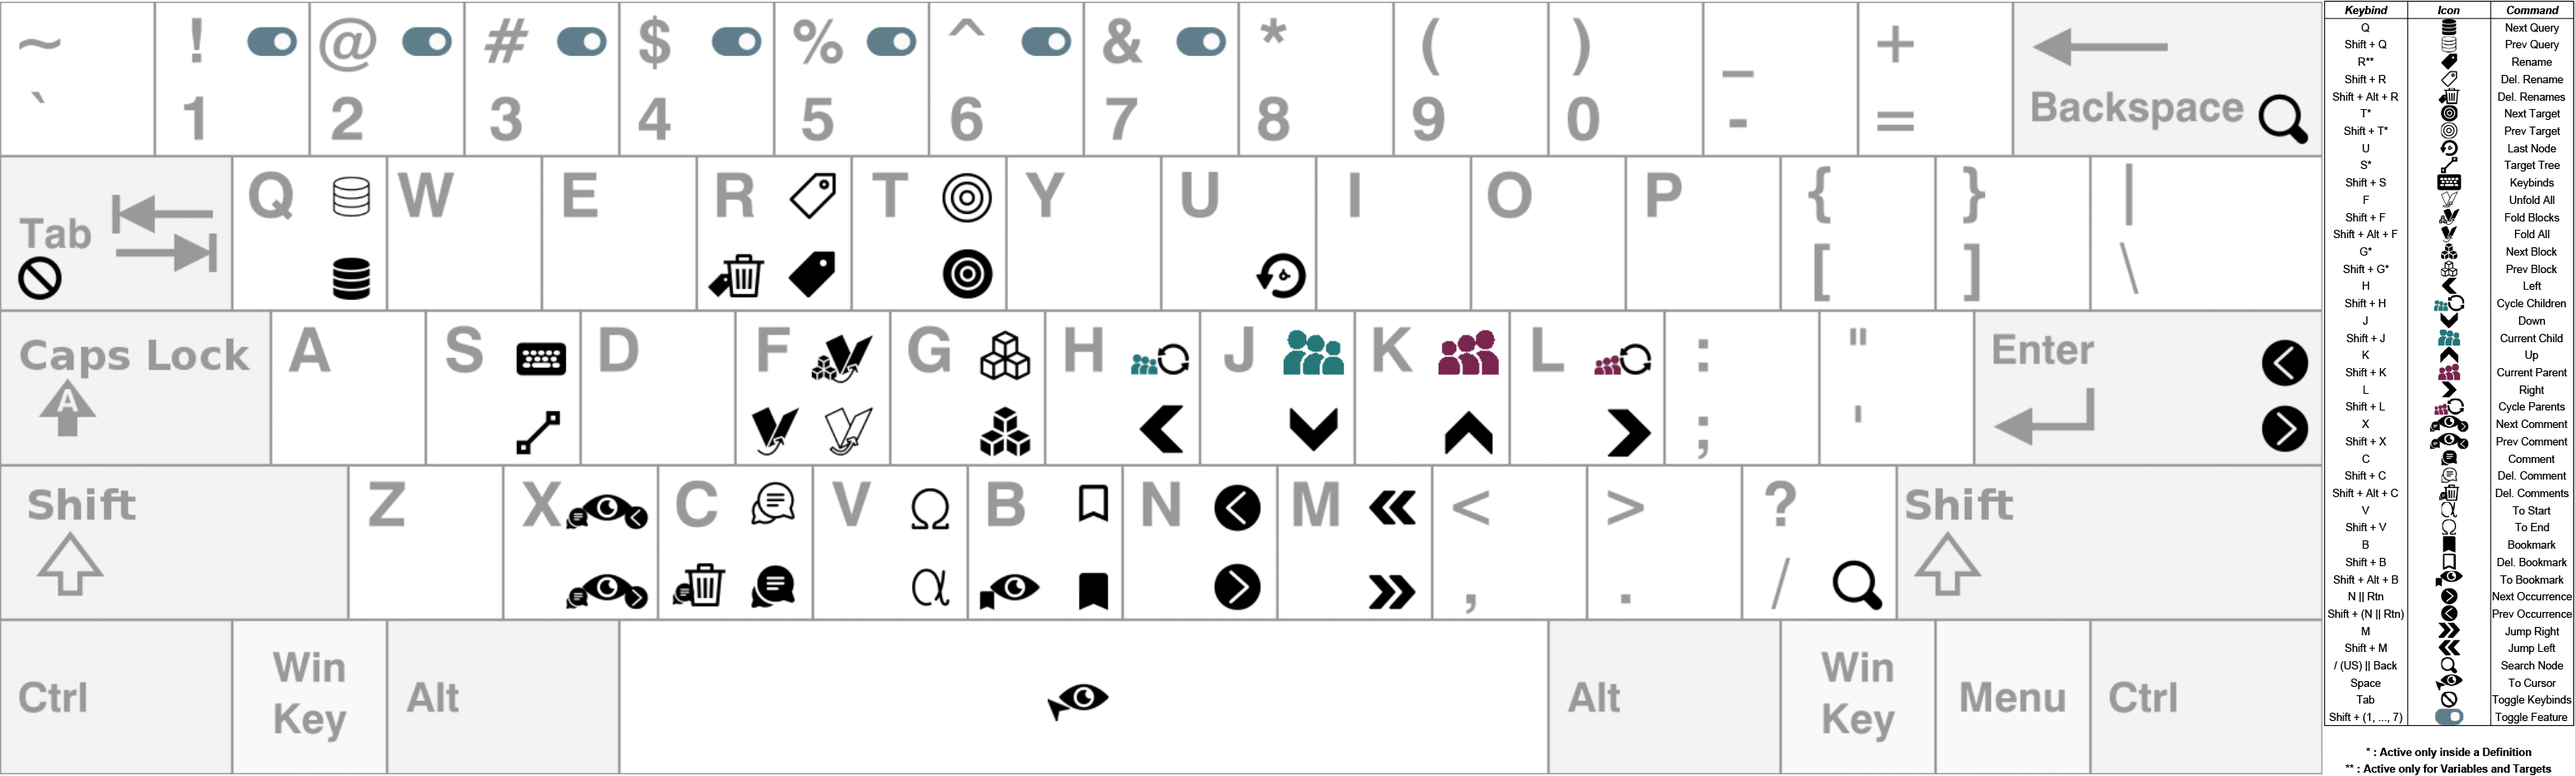
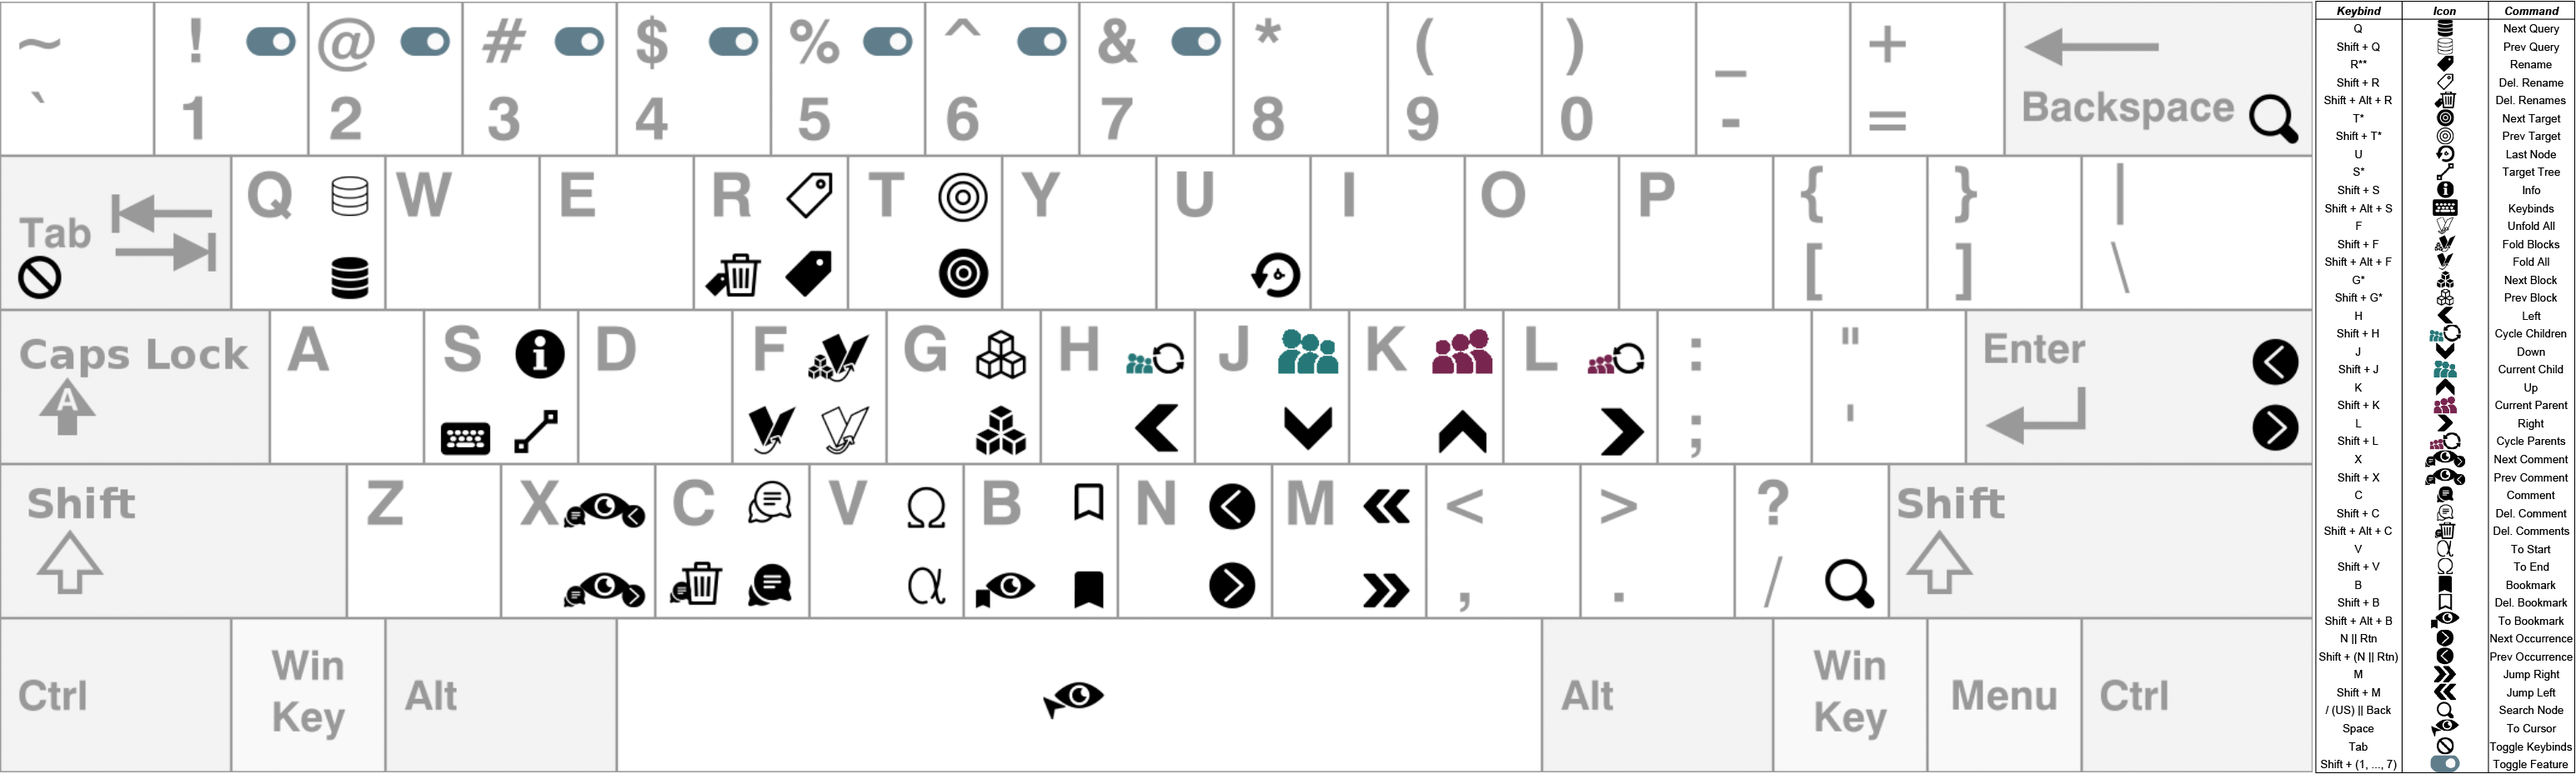
Updated Info Button

diff --git a/src/App.tsx b/src/App.tsx
@@ -1,7 +1,7 @@
 import * as React from 'react';
 import TcphDropdown from './components/TcphDropdown';
 import StatusInput, { Status } from './components/StatusInput';
-import HelpModal from './components/HelpModal';
+import InfoModal from './components/InfoModal';
 import KeybindModal from './components/KeybindModal';
 import TargetTreeModal from './components/TargetTreeModal';
 import Editor from './components/Editor';
@@ -17,7 +17,7 @@ interface IAppProps {}
 interface IAppState {
     index: number;
     input: string;
-    showHelpModal: boolean;
+    showInfoModal: boolean;
     showKeybindModal: boolean;
     showTargetTreeModal: boolean;
 }
@@ -30,7 +30,7 @@ class App extends React.Component<IAppProps, IAppState> {
     private editor: Editor | null = null;
     private data: Graph[] = getData();
     private inputElement: StatusInput | null = null;
-    private hpModalElement: HelpModal | null = null;
+    private ifModalElement: InfoModal | null = null;
     private ttModalElement: TargetTreeModal | null = null;
 
     constructor(props: IAppProps) {
@@ -38,7 +38,7 @@ class App extends React.Component<IAppProps, IAppState> {
         this.state = {
             index: 0,
             input: '',
-            showHelpModal: false,
+            showInfoModal: false,
             showKeybindModal: false,
             showTargetTreeModal: false,
         };
@@ -50,8 +50,8 @@ class App extends React.Component<IAppProps, IAppState> {
         this.passInput = this.passInput.bind(this);
         this.focusInput = this.focusInput.bind(this);
         this.resetStatus = this.resetStatus.bind(this);
-        this.displayHelpModal = this.displayHelpModal.bind(this);
-        this.buildHelpModal = this.buildHelpModal.bind(this);
+        this.displayInfoModal = this.displayInfoModal.bind(this);
+        this.buildInfoModal = this.buildInfoModal.bind(this);
         this.displayKeybindModal = this.displayKeybindModal.bind(this);
         this.displayTargetTreeModal = this.displayTargetTreeModal.bind(this);
         this.buildTargetTreeModal = this.buildTargetTreeModal.bind(this);
@@ -113,22 +113,22 @@ class App extends React.Component<IAppProps, IAppState> {
         if (this.inputElement) this.inputElement.setStatus(Status.NODE);
     }
 
-    public displayHelpModal() {
+    public displayInfoModal() {
         this.setState({
-            showHelpModal: !this.state.showHelpModal,
+            showInfoModal: !this.state.showInfoModal,
             showKeybindModal: false,
             showTargetTreeModal: false,
         });
         if (this.editor) this.editor.getInstance().focus();
     }
 
-    public buildHelpModal(help: string) {
-        if (this.hpModalElement) this.hpModalElement.setData(help);
+    public buildInfoModal(help: string) {
+        if (this.ifModalElement) this.ifModalElement.setData(help);
     }
 
     public displayKeybindModal() {
         this.setState({
-            showHelpModal: false,
+            showInfoModal: false,
             showKeybindModal: !this.state.showKeybindModal,
             showTargetTreeModal: false,
         });
@@ -137,7 +137,7 @@ class App extends React.Component<IAppProps, IAppState> {
 
     public displayTargetTreeModal() {
         this.setState({
-            showHelpModal: false,
+            showInfoModal: false,
             showKeybindModal: false,
             showTargetTreeModal: !this.state.showTargetTreeModal,
         });
@@ -150,7 +150,7 @@ class App extends React.Component<IAppProps, IAppState> {
 
     public closeModals() {
         this.setState({
-            showHelpModal: false,
+            showInfoModal: false,
             showKeybindModal: false,
             showTargetTreeModal: false,
         });
@@ -174,11 +174,11 @@ class App extends React.Component<IAppProps, IAppState> {
                 ref={(ref) => (this.inputElement = ref)}
             />
         );
-        let hpModal = (
-            <HelpModal
-                showModal={this.state.showHelpModal}
-                onModalClick={this.displayHelpModal}
-                ref={(ref) => (this.hpModalElement = ref)}
+        let ifModal = (
+            <InfoModal
+                showModal={this.state.showInfoModal}
+                onModalClick={this.displayInfoModal}
+                ref={(ref) => (this.ifModalElement = ref)}
             />
         );
         let kbModal = <KeybindModal showModal={this.state.showKeybindModal} onModalClick={this.displayKeybindModal} />;
@@ -199,8 +199,8 @@ class App extends React.Component<IAppProps, IAppState> {
                 passInput={this.passInput}
                 focusInput={this.focusInput}
                 resetStatus={this.resetStatus}
-                displayHelpModal={this.displayHelpModal}
-                buildHelpModal={this.buildHelpModal}
+                displayInfoModal={this.displayInfoModal}
+                buildInfoModal={this.buildInfoModal}
                 displayKeybindModal={this.displayKeybindModal}
                 displayTargetTreeModal={this.displayTargetTreeModal}
                 buildTargetTreeModal={this.buildTargetTreeModal}
@@ -214,7 +214,7 @@ class App extends React.Component<IAppProps, IAppState> {
                     {dropdown}
                     {input}
                 </div>
-                {hpModal}
+                {ifModal}
                 {kbModal}
                 {ttModal}
                 {editor}

diff --git a/src/components/Editor.tsx b/src/components/Editor.tsx
@@ -16,8 +16,8 @@ interface IEditorProps {
     passInput: (input: string) => void;
     focusInput: (status: Status, prev?: string) => void;
     resetStatus: () => void;
-    displayHelpModal: () => void;
-    buildHelpModal: (help: string) => void;
+    displayInfoModal: () => void;
+    buildInfoModal: (help: string) => void;
     displayKeybindModal: () => void;
     displayTargetTreeModal: () => void;
     buildTargetTreeModal: (data: treeData | null) => void;
@@ -120,7 +120,7 @@ class Editor extends React.Component<IEditorProps, IEditorState> {
         this.handleKeypressUnfoldAll = this.handleKeypressUnfoldAll.bind(this);
         this.handleKeypressNextTcphQuery = this.handleKeypressNextTcphQuery.bind(this);
         this.handleKeypressPrevTcphQuery = this.handleKeypressPrevTcphQuery.bind(this);
-        this.handleKeypressDisplayHelpModal = this.handleKeypressDisplayHelpModal.bind(this);
+        this.handleKeypressDisplayInfoModal = this.handleKeypressDisplayInfoModal.bind(this);
         this.handleKeypressDisplayKeybindModal = this.handleKeypressDisplayKeybindModal.bind(this);
         this.handleKeypressDisplayTargetTreeModal = this.handleKeypressDisplayTargetTreeModal.bind(this);
         this.handleKeypressRevealCursor = this.handleKeypressRevealCursor.bind(this);
@@ -444,14 +444,14 @@ class Editor extends React.Component<IEditorProps, IEditorState> {
                 id: 'revealCursor',
                 label: 'Reveal Cursor',
                 keybindings: [monaco.KeyCode.Space],
-                contextMenuGroupId: '6_other',
+                //contextMenuGroupId: '6_other',
                 contextMenuOrder: 1,
                 keybindingContext: 'condition',
                 run: this.handleKeypressRevealCursor,
             });
             this.editor.addAction({
                 id: 'displayTargetTreeModal',
-                label: 'Show Target Tree Modal',
+                label: 'Show Target Tree',
                 keybindings: [monaco.KeyCode.KEY_S],
                 contextMenuGroupId: '6_other',
                 contextMenuOrder: 2,
@@ -459,17 +459,17 @@ class Editor extends React.Component<IEditorProps, IEditorState> {
                 run: this.handleKeypressDisplayTargetTreeModal,
             });
             this.editor.addAction({
-                id: 'displayHelpModal',
-                label: 'Show Help Modal',
+                id: 'displayInfoModal',
+                label: 'Show Current Node Info',
                 keybindings: [monaco.KeyMod.Shift | monaco.KeyCode.KEY_S],
                 contextMenuGroupId: '6_other',
                 contextMenuOrder: 3,
                 keybindingContext: 'condition',
-                run: this.handleKeypressDisplayHelpModal,
+                run: this.handleKeypressDisplayInfoModal,
             });
             this.editor.addAction({
                 id: 'displayKeybindModal',
-                label: 'Show Keybindings Modal',
+                label: 'Show Keyboard Shortcuts',
                 keybindings: [monaco.KeyMod.Shift | monaco.KeyMod.Alt | monaco.KeyCode.KEY_S],
                 contextMenuGroupId: '6_other',
                 contextMenuOrder: 4,
@@ -826,11 +826,11 @@ class Editor extends React.Component<IEditorProps, IEditorState> {
         this.props.prevTcphQuery();
     }
 
-    public handleKeypressDisplayHelpModal() {
+    public handleKeypressDisplayInfoModal() {
         let help = this.graph.getHelpAt(this.lastPosition);
         if (help) {
-            this.props.buildHelpModal(help);
-            this.props.displayHelpModal();
+            this.props.buildInfoModal(help);
+            this.props.displayInfoModal();
         }
     }
 

diff --git a/src/components/InfoModal.tsx b/src/components/InfoModal.tsx
@@ -1,15 +1,15 @@
 import React from 'react';
 
-interface IHelpModalProps {
+interface IInfoModalProps {
     showModal: boolean;
     onModalClick: () => void;
 }
 
 /**
- * HelpModal:
+ * InfoModal:
  * Modal for the help text
  */
-class HelpModal extends React.Component<IHelpModalProps> {
+class InfoModal extends React.Component<IInfoModalProps> {
     private data: string | null = null;
 
     setData(data: string) {
@@ -19,14 +19,14 @@ class HelpModal extends React.Component<IHelpModalProps> {
     render() {
         return (
             <div
-                id="HelpModal"
+                id="InfoModal"
                 className="modal"
                 style={{ display: this.props.showModal ? 'block' : 'none' }}
                 onClick={this.props.onModalClick}
             >
                 <div className="modal-background">
                     <span className="close">&times;</span>
-                    <h3 className="modal-header">Help - CURRENT NODE</h3>
+                    <h3 className="modal-header">Info - CURRENT NODE</h3>
                     <div className="modal-content-container">
                         <pre className="modal-content">{this.data}</pre>
                     </div>
@@ -36,4 +36,4 @@ class HelpModal extends React.Component<IHelpModalProps> {
     }
 }
 
-export default HelpModal;
+export default InfoModal;

diff --git a/src/content/structure/operation.ts b/src/content/structure/operation.ts
@@ -92,7 +92,7 @@ enum OpCode {
 
 /**
  * OpNote:
- * Define help for operations (https://llvm.org/docs/LangRef.html)
+ * Define operation note (https://llvm.org/docs/LangRef.html)
  */
 enum OpNote {
     ADD = 'Returns the sum of its two operands',
@@ -466,8 +466,8 @@ class operation extends _instruction {
         return this;
     }
 
-    public getHelp() {
-        return super.getHelp() + '\n\nOPCODE:\t' + this.opcode + '\n\nNOTE:\t' + this.opnote;
+    public getInfo() {
+        return super.getInfo() + '\n\nOPCODE:\t' + this.opcode + '\n\nNOTE:\t' + this.opnote;
     }
 
     public hasVariable(name: string) {
@@ -522,7 +522,7 @@ function matchOpCode(str: string | null) {
 
 function matchOpNote(str: string | null) {
     if (!str) return null;
-    let helps = Object.keys(OpNote);
-    for (let i = 0; i < helps.length; i++) if (helps[i] === str.toUpperCase()) return Object.values(OpNote)[i];
+    let notes = Object.keys(OpNote);
+    for (let i = 0; i < notes.length; i++) if (notes[i] === str.toUpperCase()) return Object.values(OpNote)[i];
     return null;
 }

diff --git a/src/content/structure/_node.ts b/src/content/structure/_node.ts
@@ -58,7 +58,7 @@ abstract class _node {
 
     public abstract getNodeAt(position: monaco.Position): _node | null;
 
-    public getHelp() {
+    public getInfo() {
         let start = this.getRange().getStartPosition();
         let end = this.getRange().getEndPosition();
         return (

diff --git a/README.md b/README.md
@@ -187,6 +187,7 @@ TargetTree Modal
 # Future Work
 
 Context Menu submenus
+More info
 SQL-Inspektor
 
 # Use Cases
@@ -198,7 +199,7 @@ Showcase data flow in @\_Compare:
 1. Start by defining input parameters via RENAME (left -> A / right -> B)
 2. Click on variable to find child node and jump to it.
 3. RENAME child according to operation context.
-   => For reference: LLVM Doc / Help Button
+   => For reference: LLVM Doc / Info Button
    **optional:** Add comments for reference
 
 ## UC#2: Analyzing big plan_steps
